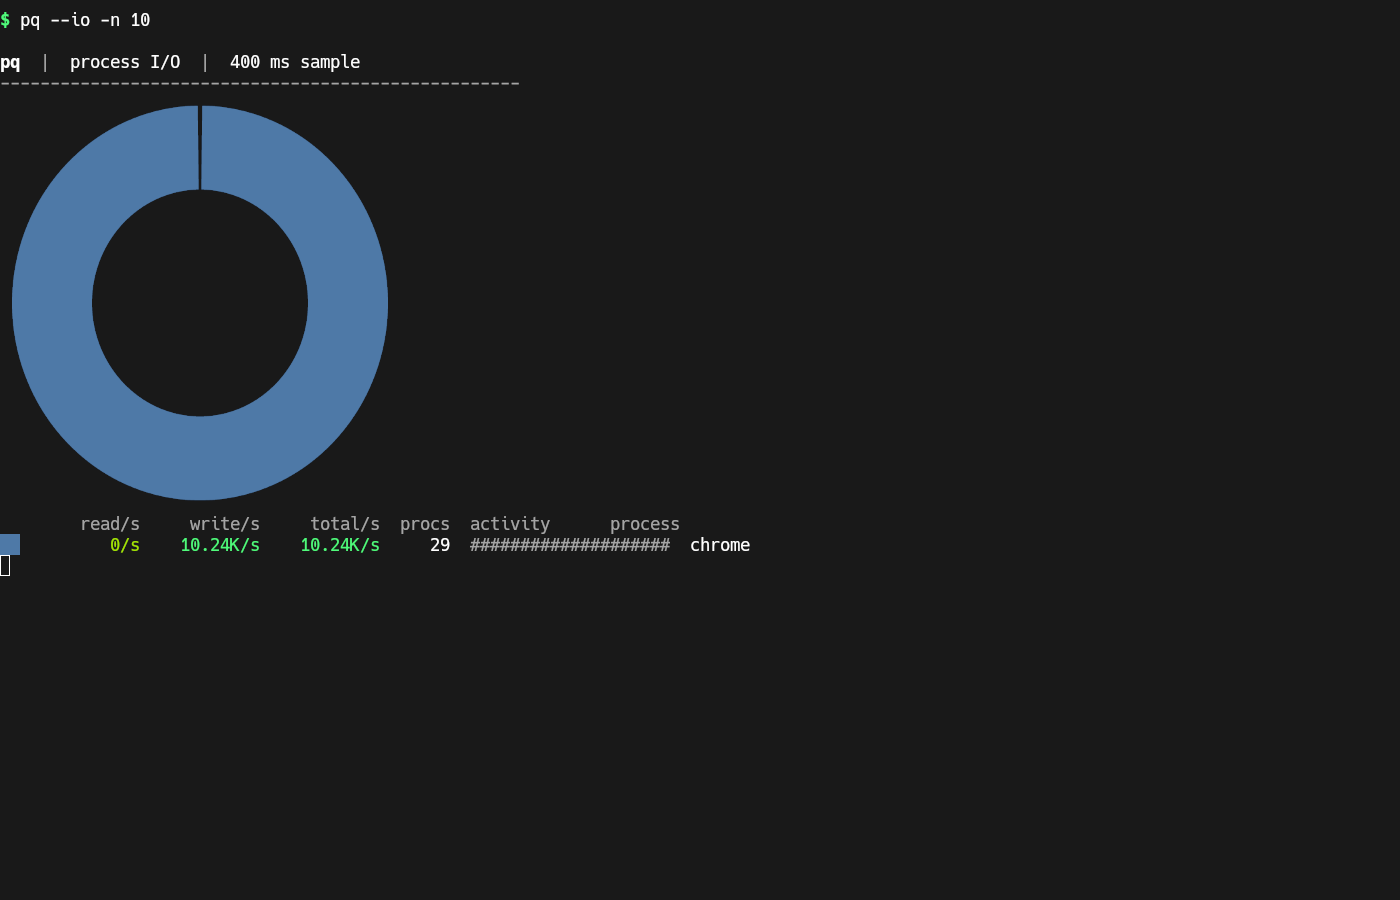
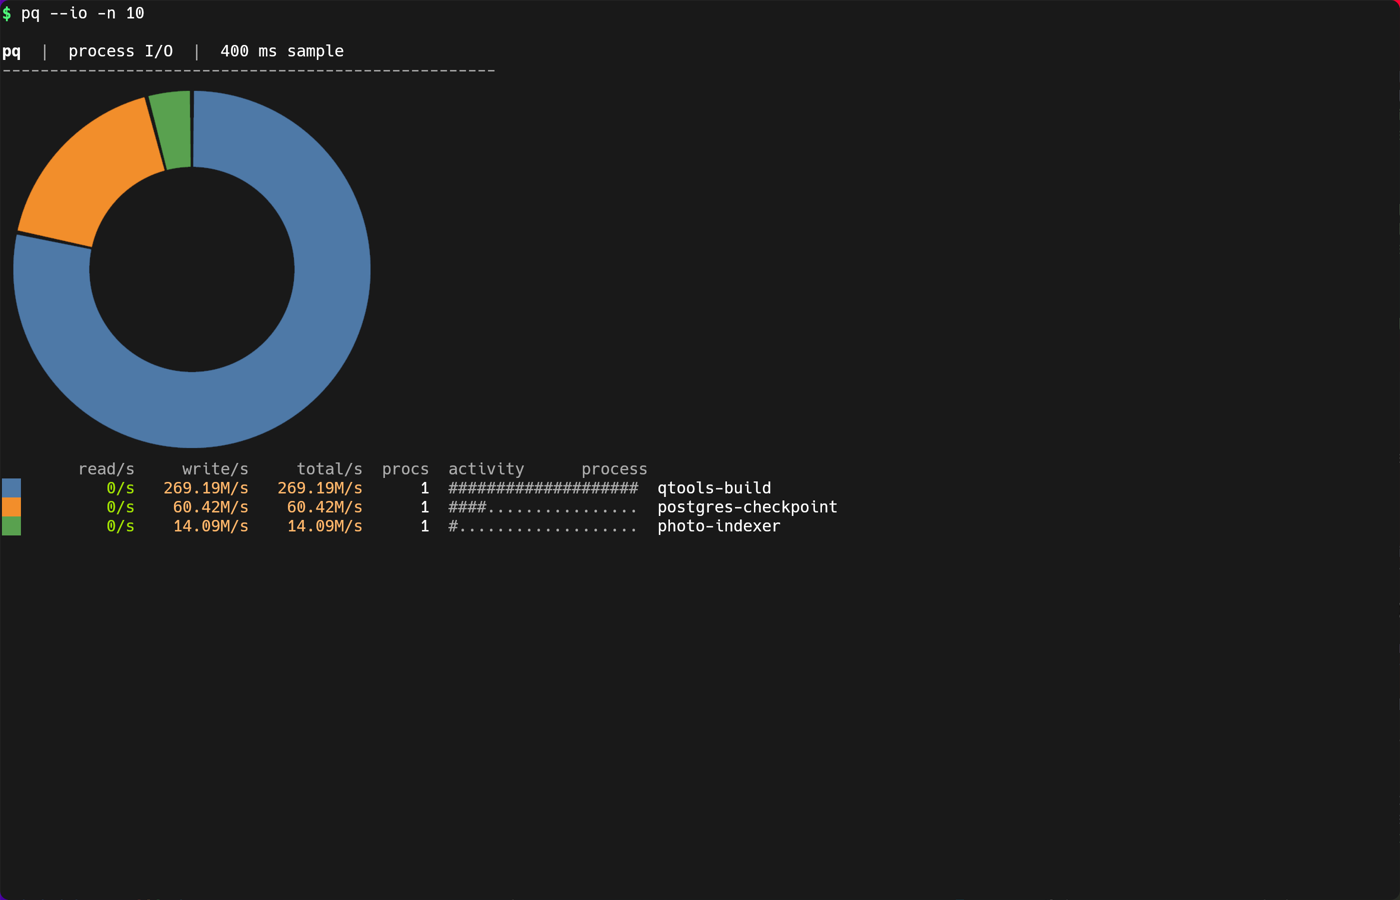
Unify installation and refresh gallery

diff --git a/src/lib/Gallery.svelte b/src/lib/Gallery.svelte
@@ -2,13 +2,13 @@
   import { tick } from 'svelte';
 
   const slides = [
-    { image: 'pq-overview.png', command: 'pq -n 10', caption: 'CPU, memory, swap, and process count together', title: 'System pulse', notes: ['Resolved process clusters, not raw executable names.', 'Color carries each cluster from chart to table.'], alt: 'pq CPU and memory overview with a multiring chart and aligned process table' },
-    { image: 'pq-swap.png', command: 'pq --swap -n 10', caption: 'find what has been pushed out of RAM', title: 'Memory versus swap', notes: ['The paired rings expose processes whose resident and swapped footprints differ.', 'Rows are ranked by actual swap use.'], alt: 'pq swap report with paired memory and swap rings and ranked consumers' },
-    { image: 'pq-network.png', command: 'pq --net -n 8', caption: 'attribute traffic, peers, and exposed listeners', title: 'Talking versus serving', notes: ['Outer ring: established connections. Inner ring: listening sockets.', 'World-facing listeners are called out in red.'], alt: 'pq two-ring network overview showing established connections and listeners including keylogger dot sh' },
-    { image: 'pq-io.png', command: 'pq --io -n 10', caption: 'live process throughput', title: 'Live throughput', notes: ['Samples kernel-accounted reads and writes over the selected interval.', 'Sort independently by total, read, or write rate.'], alt: 'pq process IO report with throughput chart and read and write rates' },
-    { image: 'pq-tree.png', command: 'pq --tree chrome --cpu', caption: 'understand process families', title: 'Hierarchy with context', notes: ['Matching descendants stay attached to their parents.', 'Siblings sort by the active metric without flattening the tree.'], alt: 'pq process tree filtered to Chrome with aligned CPU memory swap PID and parent PID columns' },
-    { image: 'dq-project.png', command: 'dq --exclude target --exclude .git --top 8 …/qtools', caption: 'account for a real project checkout', title: 'Project disk accounting', notes: ['Allocated blocks are the default, with hard links deduplicated.', 'Traversal and exclusions happen before every view.'], alt: 'dq allocated-space report for the qtools project with target and git excluded' },
-    { image: 'pq-json.png', command: 'pq --json | head -36', caption: 'inspect or pipe the report', title: 'Machines get the same facts', notes: ['Typed fields, sample metadata, and cluster membership are preserved.', 'Pretty JSON and compact JSONL use the same query pipeline.'], alt: 'pq JSON output showing sample metadata and typed process cluster fields' }
+    { image: 'pq-overview.png', command: 'pq -n 10', caption: 'see CPU and memory by process group', title: 'What is busy?', notes: ['Each row is a process group, not a pile of individual PIDs.', 'The same colour identifies it in the rings and the table.'], alt: 'pq CPU and memory overview with a multiring chart and aligned process table' },
+    { image: 'pq-swap.png', command: 'pq --swap -n 10', caption: 'find which processes are using swap', title: 'Who is using swap?', notes: ['The outer ring shows memory; the inner ring shows swap.', 'The table is ordered by swapped bytes.'], alt: 'pq swap report with paired memory and swap rings and ranked consumers' },
+    { image: 'pq-network.png', command: 'pq --net -n 8', caption: 'match connections and listeners to processes', title: 'Who is talking?', notes: ['The outer ring is active connections; the inner ring is listening sockets.', 'Red ports are listening on more than localhost.'], alt: 'pq two-ring network overview showing established connections and listeners including keylogger dot sh' },
+    { image: 'pq-io.png', command: 'pq --io -n 10', caption: 'see which processes are reading and writing', title: 'Who is doing I/O?', notes: ['Three short-lived demo writers make the comparison visible here.', 'The table shows the rate measured over 400 ms, not a lifetime total.'], alt: 'pq process IO report with three demo workloads and their write rates' },
+    { image: 'pq-tree.png', command: 'pq --tree chrome --cpu', caption: 'keep parent and child processes together', title: 'How did it start?', notes: ['The tree keeps parent and child relationships visible.', 'With --cpu, siblings are sorted without flattening the tree.'], alt: 'pq process tree filtered to Chrome with aligned CPU memory swap PID and parent PID columns' },
+    { image: 'dq-project.png', command: 'dq --all --top 8 ~/code/oss/qtools', caption: 'find the largest parts of a project checkout', title: 'Where did the space go?', notes: ['This checkout is mostly compiler output under target.', '--all shows the largest nested directories, not only the first level.'], alt: 'dq allocated-space report showing the largest directories in the qtools project' },
+    { image: 'pq-json.png', command: 'pq --json | head -36', caption: 'use the same process query from a script', title: 'Need the data?', notes: ['--json returns the report data without the terminal chart.', 'CPU, memory, swap, and process members remain separate fields.'], alt: 'pq JSON output showing sample metadata and process cluster fields' }
   ];
 
   let current = 0;

diff --git a/src/App.svelte b/src/App.svelte
@@ -5,6 +5,9 @@
   import ToolToy from './lib/ToolToy.svelte';
 
   let route = window.location.pathname.startsWith('/screenshots') ? 'screenshots' : 'home';
+  let architecture = 'x86_64';
+  $: appImage = architecture === 'x86_64' ? 'Qtools-x86_64.AppImage' : 'Qtools-aarch64.AppImage';
+  $: installCode = `curl -fLO https://repo.qtools.sh/${appImage}\nchmod +x ${appImage}\n./${appImage} --install\npq --help\ndq --help`;
 
   function navigate(event, next) {
     event.preventDefault();
@@ -36,20 +39,24 @@
 
   {#if route === 'home'}
     <section class="hero">
-      <p class="eyebrow">Linux, explained from the terminal</p>
       <h1>Query what's using your machine.</h1>
       <p class="lede"><code>pq</code> explains processes, ports, and open resources. <code>dq</code> explains disk usage. Fast, visual, and built for Linux terminals.</p>
       <ToolToy onOpen={(event) => navigate(event, 'screenshots')} />
-      <div class="downloads">
-        <a class="primary" href="https://repo.qtools.sh/Qtools-x86_64.AppImage">Download for x86-64</a>
-        <a href="https://repo.qtools.sh/Qtools-aarch64.AppImage">ARM64</a>
-        <a href="https://github.com/reubenfirmin/qtools">Source</a>
-      </div>
     </section>
 
-    <section><h2>Install for your user</h2><CodeBlock code={'chmod +x Qtools-x86_64.AppImage\n./Qtools-x86_64.AppImage --install\npq --help\ndq --help'} /><p class="small">Installs to <code>~/.local/bin</code>. No root access required.</p></section>
+    <section class="install-section">
+      <div class="section-heading">
+        <h2>Download and install</h2>
+        <div class="architecture-switch" role="group" aria-label="CPU architecture">
+          <button type="button" class:active={architecture === 'x86_64'} on:click={() => architecture = 'x86_64'}>x86-64</button>
+          <button type="button" class:active={architecture === 'aarch64'} on:click={() => architecture = 'aarch64'}>ARM64</button>
+        </div>
+      </div>
+      <CodeBlock code={installCode} />
+      <p class="small">Downloads the AppImage, then installs <code>pq</code>, <code>dq</code>, and <code>qtools</code> to <code>~/.local/bin</code>. No root access required. <a href="https://github.com/reubenfirmin/qtools">View source</a>.</p>
+    </section>
     <section><h2>Update</h2><CodeBlock code="qtools update" /><p class="small">Uses the AppImage zsync channel to download only the changed parts.</p></section>
-    <section><h2>Verify provenance</h2><CodeBlock code={'gh attestation verify Qtools-x86_64.AppImage \\\n  --repo reubenfirmin/qtools'} /><p class="small">Confirms that GitHub Actions built this exact file from the qtools repository.</p></section>
+    <section><h2>Verify provenance</h2><CodeBlock code={`gh attestation verify ${appImage} \\\n  --repo reubenfirmin/qtools`} /><p class="small">Confirms that GitHub Actions built this exact file from the qtools repository.</p></section>
     <footer><a href="https://repo.qtools.sh/SHA256SUMS">Checksums</a><a href="https://github.com/reubenfirmin/qtools/attestations">Build provenance</a></footer>
   {:else}
     <h1>See what is using the machine.</h1>

diff --git a/src/app.css b/src/app.css
@@ -21,14 +21,15 @@ main.gallery-page { width: min(1180px, calc(100% - 40px)); }
 .tabs a:hover { color: #d7e3dc; }
 .tabs a[aria-current="page"] { color: #e9eee8; background: #24342c; }
 h1 { max-width: 900px; margin: 54px 0 24px; font: 700 clamp(3rem, 8.6vw, 6rem)/.94 system-ui, sans-serif; letter-spacing: -.065em; text-wrap: balance; }
-.eyebrow { margin: 54px 0 -34px; color: #73e2a7; font-size: .76rem; letter-spacing: .12em; text-transform: uppercase; }
 .lede { max-width: 680px; color: #b6c1bb; font-size: 1.08rem; line-height: 1.7; }
-.downloads { display: flex; flex-wrap: wrap; gap: 12px; margin: 38px 0 72px; }
-.downloads a { padding: 12px 16px; border: 1px solid #33453c; border-radius: 7px; text-decoration: none; transition: transform .15s, border-color .15s; }
-.downloads a:hover { transform: translateY(-2px); border-color: #73e2a7; }
-.downloads .primary { color: #09110d; background: #73e2a7; border-color: #73e2a7; font-weight: 700; }
 section + section { margin-top: 44px; }
 section > h2 { font: 650 1.15rem system-ui, sans-serif; }
+.install-section { margin-top: 54px; }
+.section-heading { display: flex; align-items: center; justify-content: space-between; gap: 20px; margin-bottom: 14px; }
+.section-heading h2 { margin: 0; font: 650 1.15rem system-ui, sans-serif; }
+.architecture-switch { display: flex; padding: 3px; background: #121a16; border: 1px solid #33453c; border-radius: 7px; }
+.architecture-switch button { padding: 6px 10px; color: #87958e; background: transparent; border: 0; border-radius: 5px; cursor: pointer; font-size: .76rem; }
+.architecture-switch button.active { color: #09110d; background: #73e2a7; font-weight: 700; }
 .small { color: #87958e; font-size: .88rem; line-height: 1.6; }
 footer { display: flex; flex-wrap: wrap; gap: 20px; margin-top: 72px; font-size: .82rem; }
 
@@ -87,7 +88,6 @@ footer { display: flex; flex-wrap: wrap; gap: 20px; margin-top: 72px; font-size:
 @media (max-width: 760px) {
   main { padding-top: 28px; }
   h1 { margin-top: 42px; }
-  .downloads a { width: 100%; text-align: center; }
   .toy-screen { grid-template-columns: 1fr; }
   .toy-report { grid-template-columns: 130px 1fr; }
   .toy-chart { width: 130px; height: 130px; }
@@ -104,6 +104,7 @@ footer { display: flex; flex-wrap: wrap; gap: 20px; margin-top: 72px; font-size:
   .toy-screen { padding: 22px; }
   .toy-report { grid-template-columns: 1fr; }
   .toy-chart { margin: 0 auto; }
+  .section-heading { align-items: flex-start; flex-direction: column; }
 }
 
 @media (prefers-reduced-motion: reduce) { *, *::before, *::after { scroll-behavior: auto !important; transition: none !important; } }
